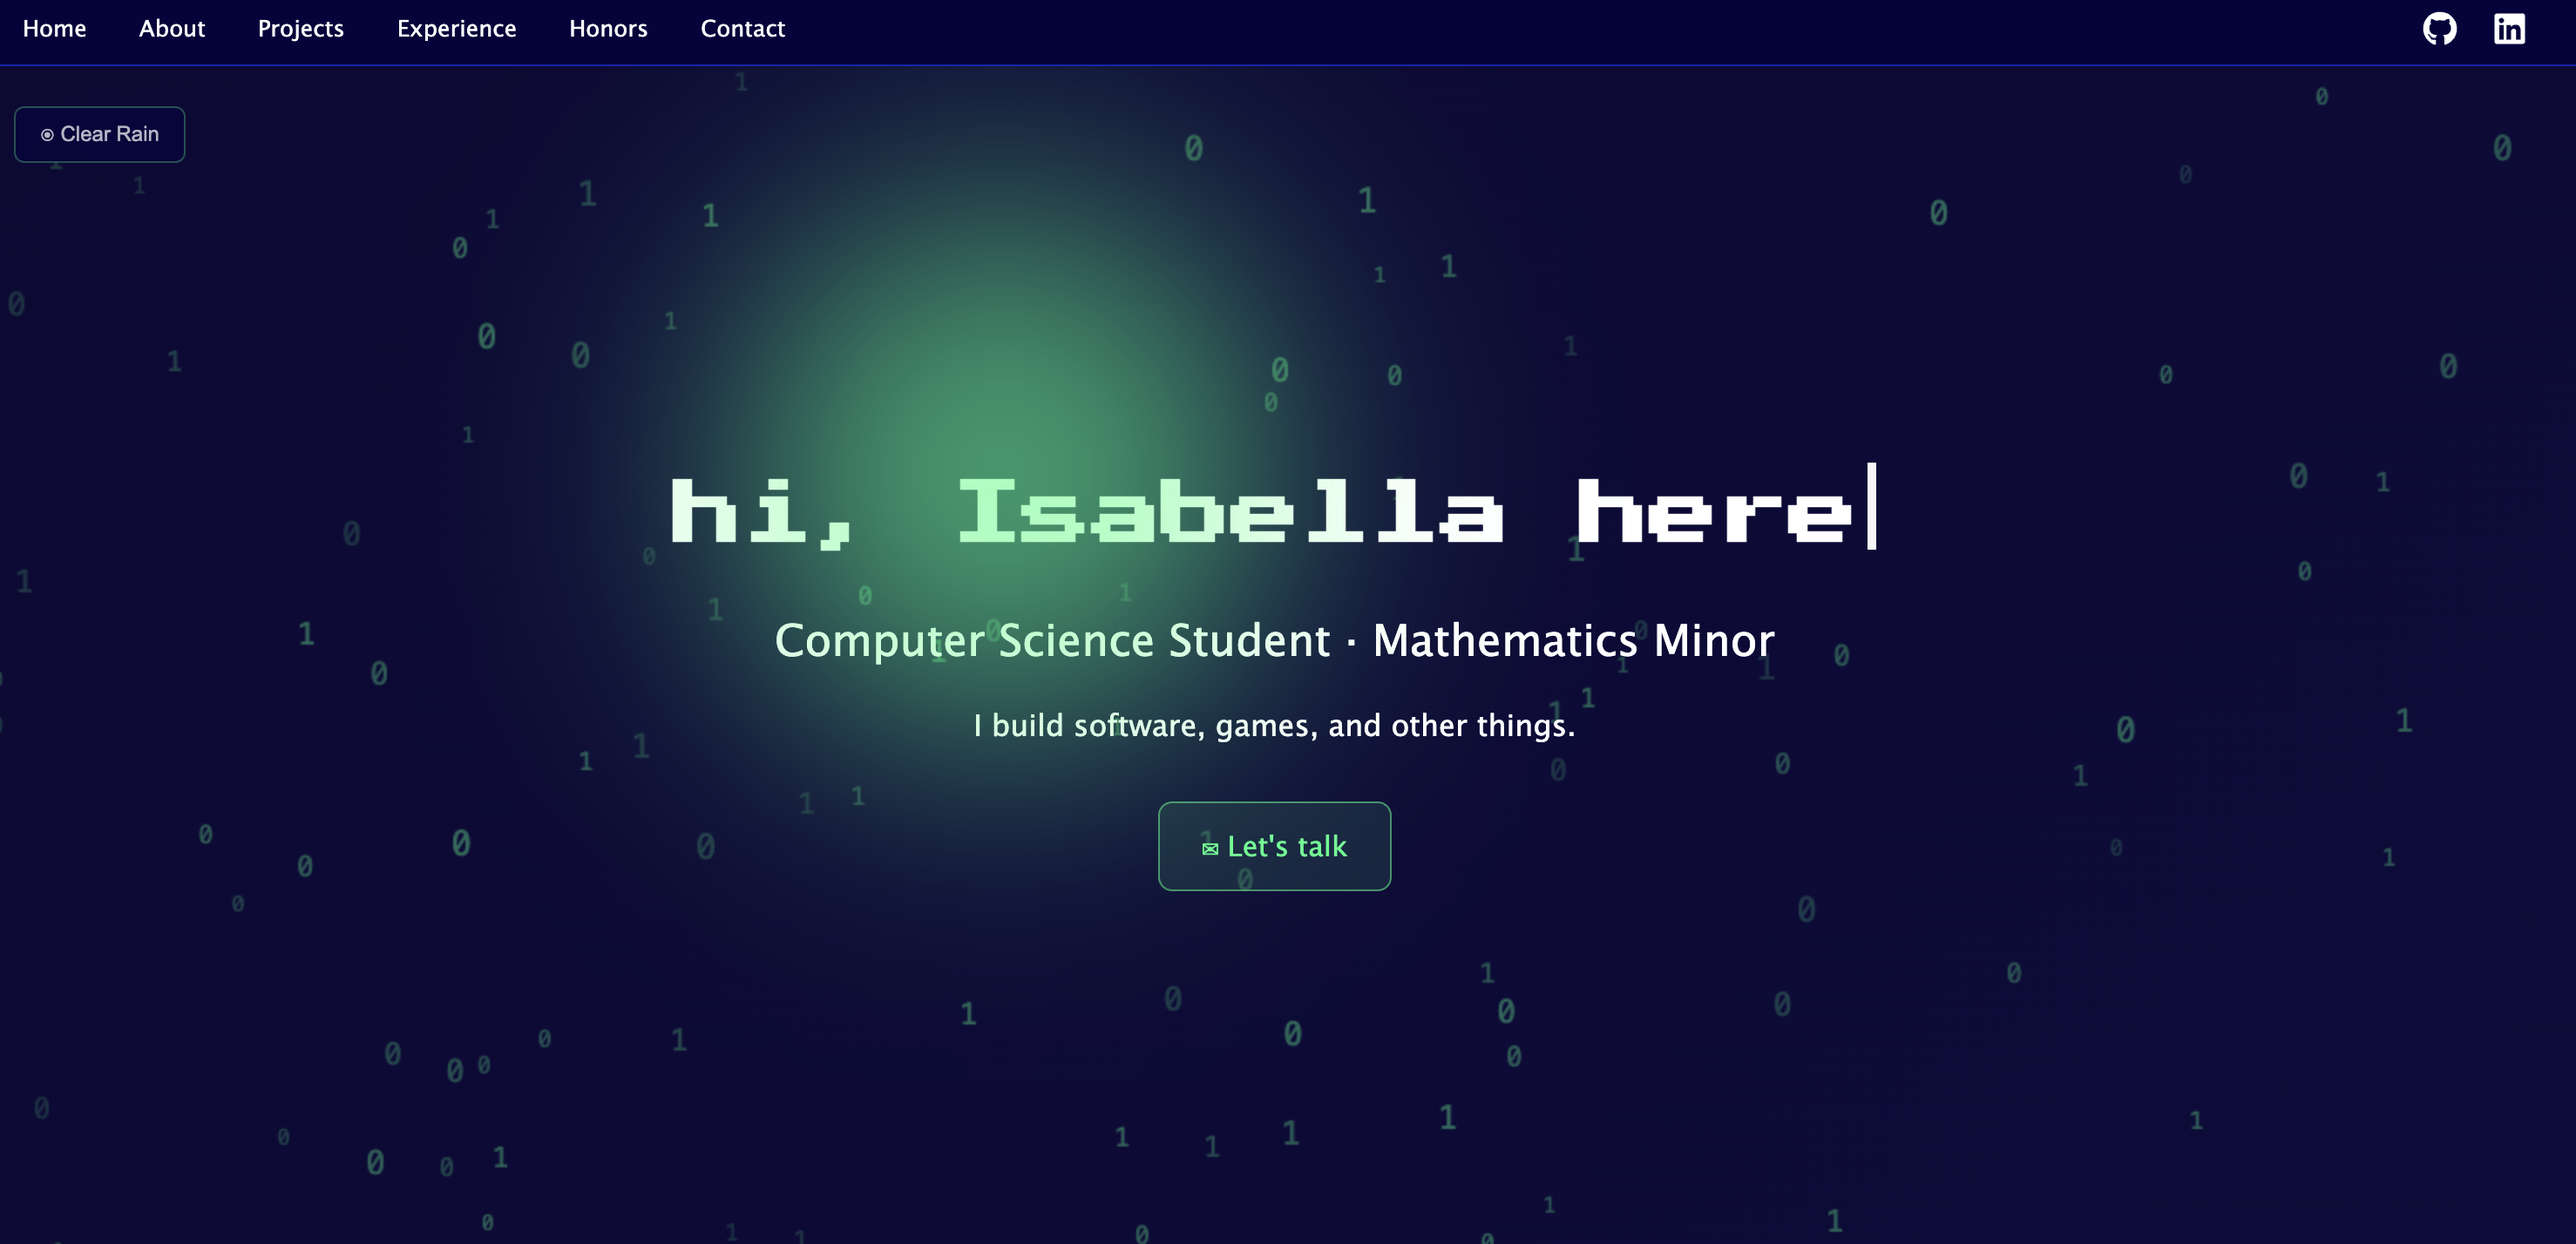
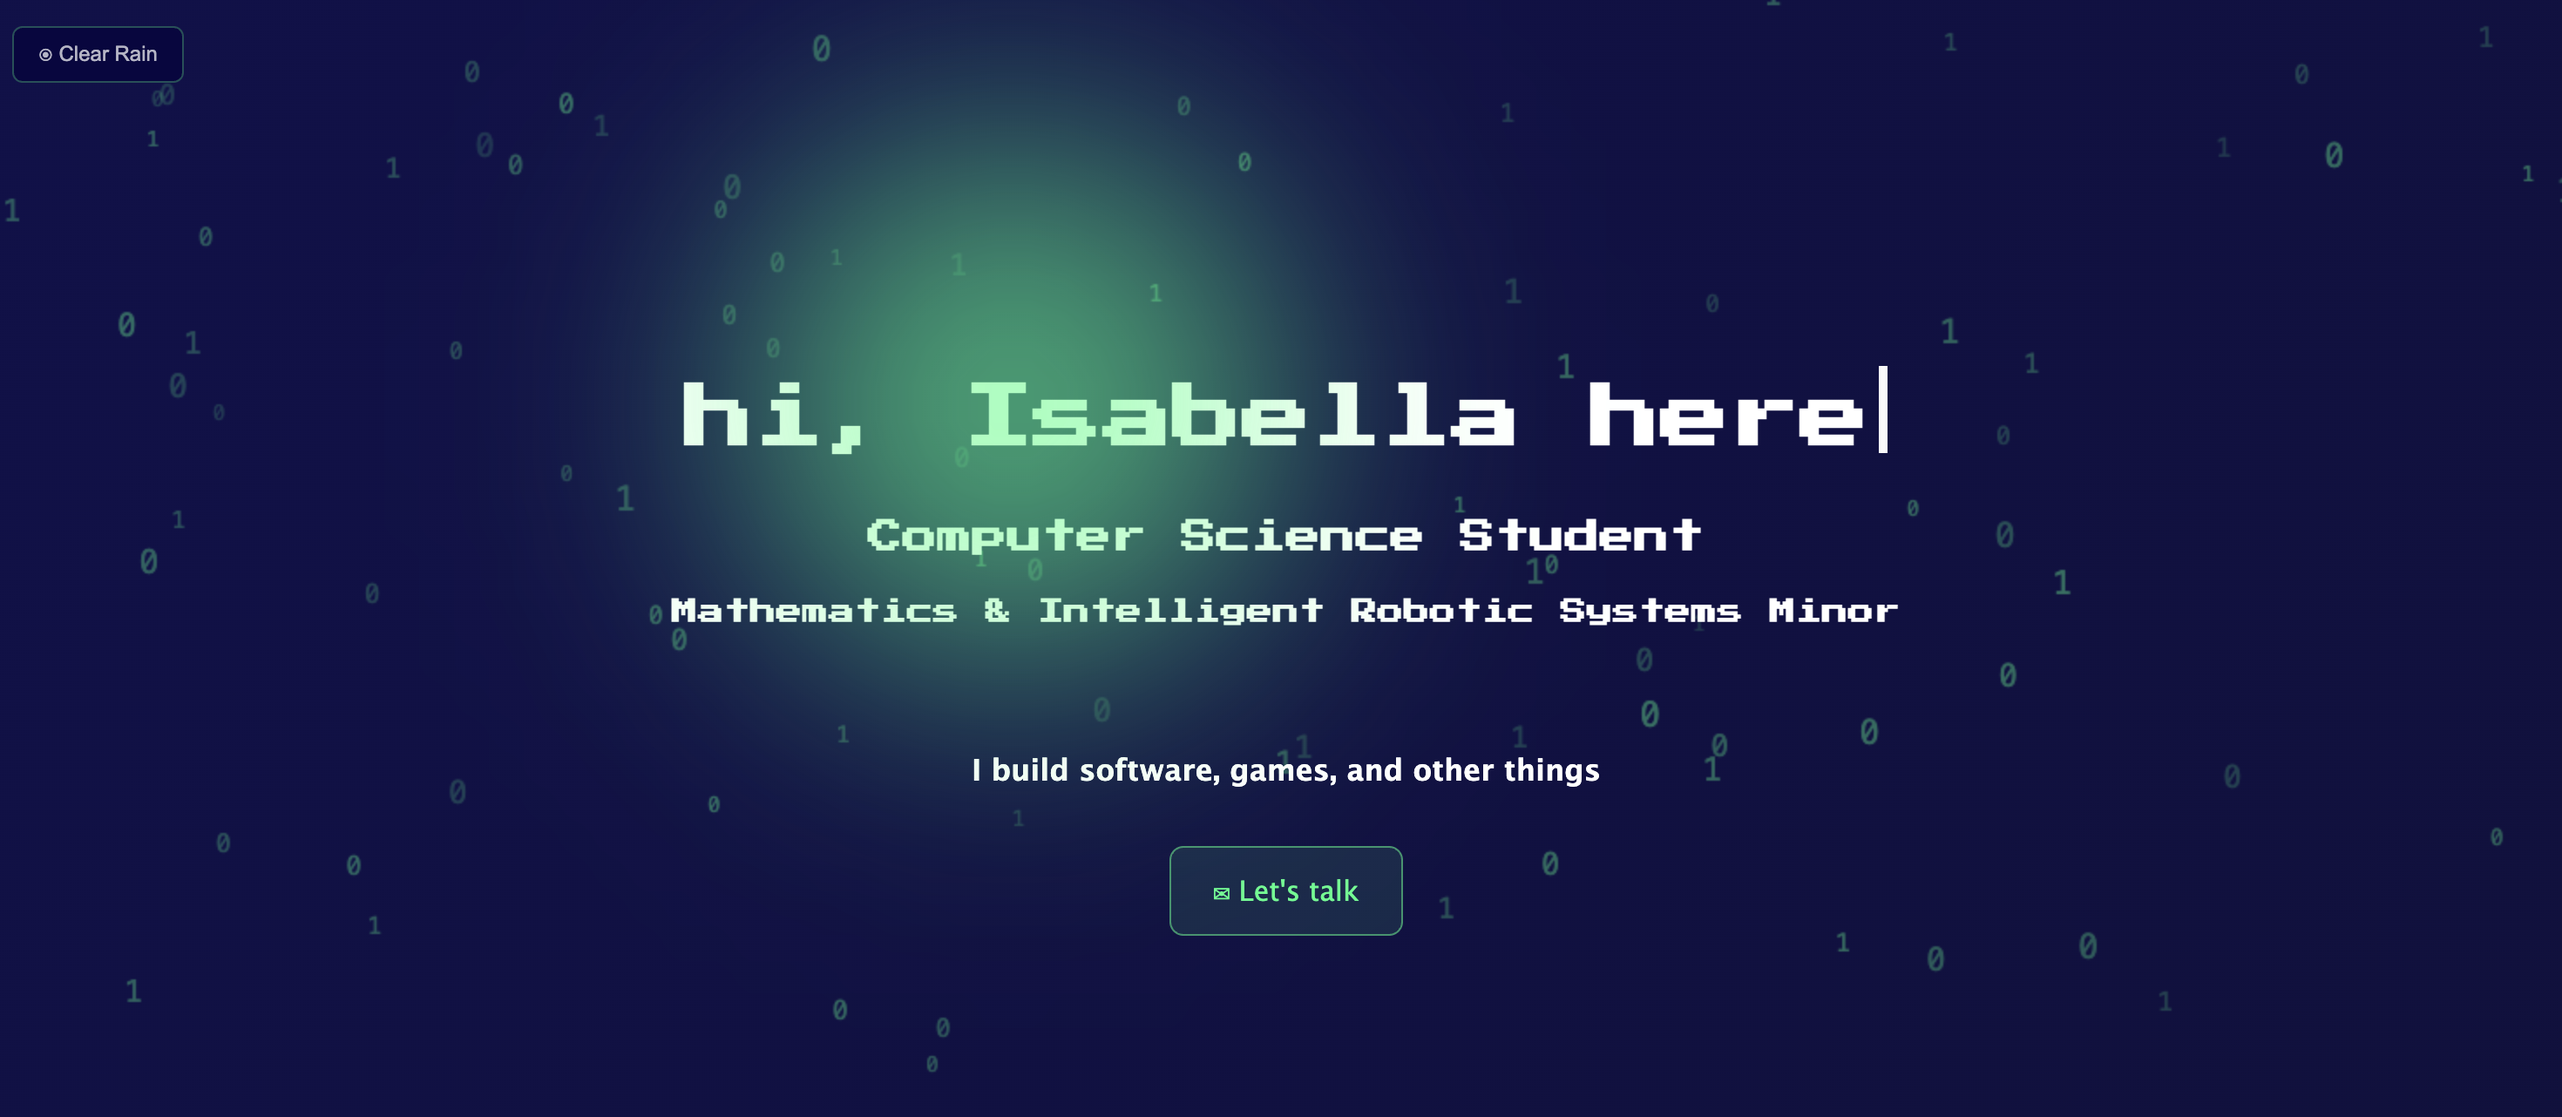
update portfolio

diff --git a/src/pages/Home.jsx b/src/pages/Home.jsx
@@ -29,7 +29,8 @@ function Home() {
 
                 <Hero
                     name="Isabella"
-                    title="Computer Science Student · Mathematics Minor"
+                    title="Computer Science Student"
+                    minor="Mathematics & Intelligent Robotic Systems Minor"
                 />
 
             </section>
@@ -63,8 +64,8 @@ function Home() {
 
                             <ul>
                                 <li>Java</li>
-                                <li>C</li>
-                                <li>C++</li>
+                                <li>Python</li>
+                                <li>C/C++</li>
                                 <li>C#</li>
                                 <li>JavaScript</li>
                             </ul>
@@ -79,8 +80,7 @@ function Home() {
                             </h4>
 
                             <ul>
-                                <li>HTML</li>
-                                <li>CSS</li>
+                                <li>HTML/CSS</li>
                                 <li>React</li>
                                 <li>Node.js</li>
                             </ul>
@@ -130,7 +130,7 @@ function Home() {
                         <div className="coursework-section">
 
                             <h3>
-                                Upcoming <span>(Fall 2026)</span>
+                                Current <span>(Fall 2026)</span>
                             </h3>
 
                             <p>

diff --git a/src/components/Hero.jsx b/src/components/Hero.jsx
@@ -1,6 +1,6 @@
 import TypingText from "./TypingText";
 
-function Hero({ name, title }) {
+function Hero({ name, title, minor }) {
 
     return (
 
@@ -12,13 +12,21 @@ function Hero({ name, title }) {
                     text={`hi, ${name} here`}
                 />
 
-                <p className="hero-subtitle">
-                    {title}
-                </p>
+                <span>
 
-                <p className="hero-tagline">
-                    I build software, games, and other things.
-                </p>
+                    <h2 className="hero-subtitle">
+                        {title}
+                    </h2>
+
+                    <h3 className="hero-subtitle">
+                        {minor}
+                    </h3>
+
+                </span>
+
+                <h4 className="hero-tagline">
+                    I build software, games, and other things
+                </h4>
 
                 <a
                     href="mailto:isabellarquesada@gmail.com"

diff --git a/src/App.css b/src/App.css
@@ -3,7 +3,7 @@
 }
 
 .hero {
-  min-height: calc(100vh - 40px);
+  min-height: calc(100vh - 100px);
   display: flex;
   justify-content: center;
   align-items: center;
@@ -15,6 +15,20 @@
   font-size: 40px;
   font-family: "Press Start 2P", system-ui;
   margin-bottom: 20px;
+}
+
+.hero h2 {
+    font-size: 20px;
+    font-family: "Press Start 2P", system-ui;
+}
+
+.hero h3 {
+    font-size: 15px;
+    font-family: "Press Start 2P", system-ui;
+}
+
+.hero h4 {
+    margin-top: 65px;
 }
 
 .section-container {

diff --git a/src/components/ExperienceTimeline.jsx b/src/components/ExperienceTimeline.jsx
@@ -2,7 +2,7 @@ function ExperienceTimeline() {
 
     const experiences = [
         {
-            year: "Incoming Aug 2026",
+            year: "Aug 2026 - Present",
             title: "Teaching Assistant - Security in Computing",
             organization: "College of Engineering and Computer Science, UCF",
             description1: "Support students through scheduled office hours by answering questions, clarifying course concepts, and providing academic guidance.",
